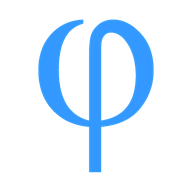
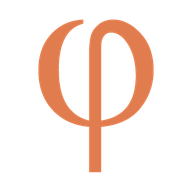
Home: the Band Break chart in the TradingView section; the Phisys mark in orange
Claude-Session: https://claude.ai/code/session_01PvRzho6i35K84RiJEfQJhD

Changed region(s): [[0.1875, 0.0938, 0.8125, 0.9062]]

diff --git a/index.html b/index.html
@@ -59,7 +59,7 @@
 
 <section class="sec" aria-labelledby="phisys-h">
   <div class="wrap">
-    <div class="sec-head split-head"><div><p class="eyebrow">phisys</p><h2 id="phisys-h">Draw it. Prove it. Let it run.</h2></div><img class="phisys-mark" src="img/phisys-mark.png" width="96" height="96" alt="Phisys"></div>
+    <div class="sec-head split-head"><div><p class="eyebrow">phisys</p><h2 id="phisys-h">Draw it. Prove it. Let it run.</h2></div><img class="phisys-mark" src="img/phisys-mark.png?v=2" width="96" height="96" alt="Phisys"></div>
     <div class="trio">
       <article class="tile"><p class="eyebrow">manual</p><h3><a href="phisys.html#draw">Draw it</a></h3><p class="say">Stop and three targets on the chart; the trade sized from your risk and sent to your account.</p><a class="more" href="phisys.html#draw">More in Phisys<svg class="ic" aria-hidden="true" focusable="false"><use href="#i-arrow"/></svg></a><figure class="tile-img"><div class="shot" role="img" aria-label="Screenshot to come: Draw it"><span>screenshot<br>Draw it</span></div></figure></article>
       <article class="tile"><p class="eyebrow">algo</p><h3><a href="phisys.html#prove">Prove it</a></h3><p class="say">Walk-forward optimisation with the venue’s real costs, on nearly 300 assets since 2017.</p><a class="more" href="phisys.html#prove">More in Phisys<svg class="ic" aria-hidden="true" focusable="false"><use href="#i-arrow"/></svg></a><figure class="tile-img"><div class="shot" role="img" aria-label="Screenshot to come: Prove it"><span>screenshot<br>Prove it</span></div></figure></article>
@@ -73,7 +73,7 @@
   <div class="wrap">
     <div class="sec-head"><p class="eyebrow"><svg class="ic" aria-hidden="true" focusable="false"><use href="#i-chart"/></svg>tradingview</p><h2 id="tvs-h">On TradingView, free</h2></div>
     <article class="tvrow">
-      <figure class="tvimg"><img src="img/tv-aggregated-positioning.webp" width="1600" height="890" alt="Aggregated Positioning on a TradingView chart" loading="lazy"></figure>
+      <figure class="tvimg"><img src="img/tv-band-break.webp" width="1600" height="919" alt="Walk-Tuned Band Break on a TradingView chart, with its monthly returns and strategy report" loading="lazy"></figure>
       <div class="body">
         <div class="head"><svg class="ic" aria-hidden="true" focusable="false"><use href="#i-indicator"/></svg><p class="eyebrow">on tradingview</p><span class="tag">free</span></div>
         <h3 id="tvh-h"><a href="tradingview.html">Our scripts, on your charts</a></h3>
